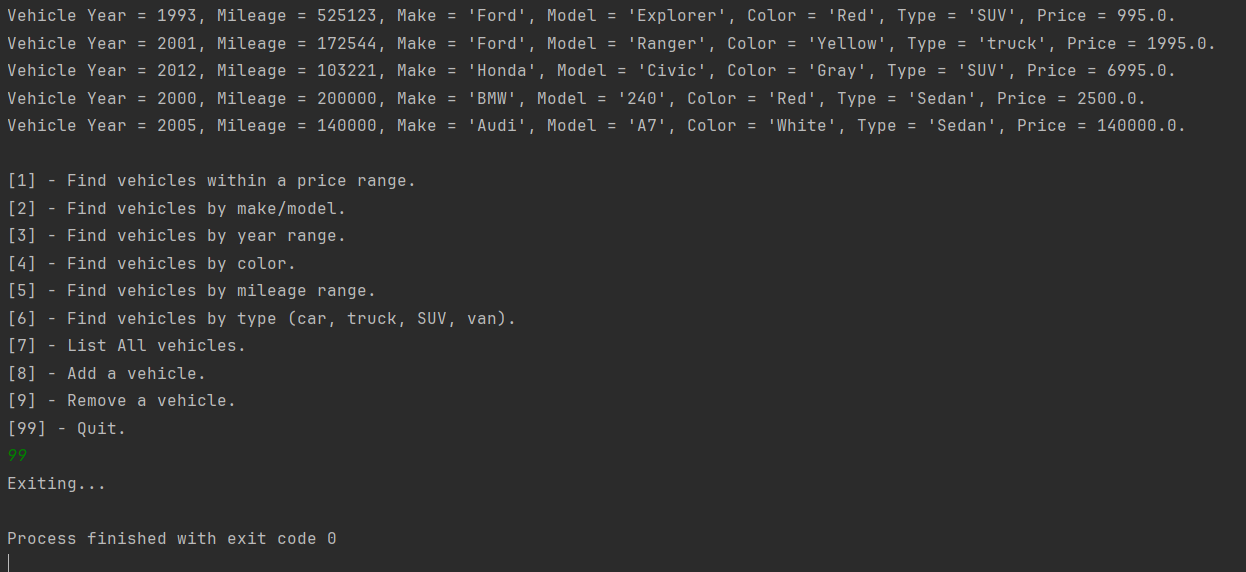
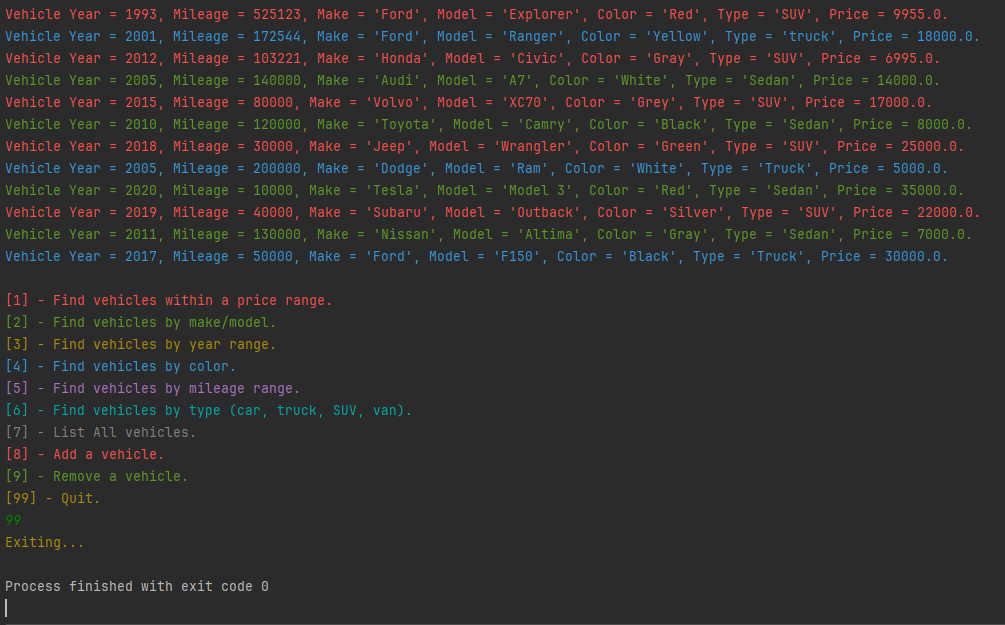
added couple new cars, added color to UI and update my README

diff --git a/Car_Dealer_Ship/src/main/java/com/pluralsight/ui/UserInterface.java b/Car_Dealer_Ship/src/main/java/com/pluralsight/ui/UserInterface.java
@@ -23,17 +23,16 @@ public class UserInterface {
 
     private void displayMenu() {
         System.out.println();
-        System.out.println("[1] - Find vehicles within a price range.");
-        System.out.println("[2] - Find vehicles by make/model.");
-        System.out.println("[3] - Find vehicles by year range.");
-        System.out.println("[4] - Find vehicles by color.");
-        System.out.println("[5] - Find vehicles by mileage range.");
-        System.out.println("[6] - Find vehicles by type (car, truck, SUV, van).");
-        System.out.println("[7] - List All vehicles.");
-        System.out.println("[8] - Add a vehicle.");
-        System.out.println("[9] - Remove a vehicle.");
-        System.out.println("[99] - Quit.");
-
+        System.out.println("\u001B[31m[1]\u001B[31m - Find vehicles within a price range.");
+        System.out.println("\u001B[32m[2]\u001B[32m - Find vehicles by make/model.");
+        System.out.println("\u001B[33m[3]\u001B[33m - Find vehicles by year range.");
+        System.out.println("\u001B[34m[4]\u001B[34m - Find vehicles by color.");
+        System.out.println("\u001B[35m[5]\u001B[35m - Find vehicles by mileage range.");
+        System.out.println("\u001B[36m[6]\u001B[36m - Find vehicles by type (car, truck, SUV, van).");
+        System.out.println("\u001B[37m[7]\u001B[37m - List All vehicles.");
+        System.out.println("\u001B[31m[8]\u001B[31m - Add a vehicle.");
+        System.out.println("\u001B[32m[9]\u001B[32m - Remove a vehicle.");
+        System.out.println("\u001B[33m[99]\u001B[33m - Quit.");
     }
 
     private void displayVehicles(List<Vehicle> vehicles) {

diff --git a/Car_Dealer_Ship/src/main/java/com/pluralsight/Model/Vehicle.java b/Car_Dealer_Ship/src/main/java/com/pluralsight/Model/Vehicle.java
@@ -21,18 +21,34 @@ public class Vehicle {
         this.price = price;
     }
 
-      @Override
-      public String toString() {
-          return "Vehicle " +
-                  "Year = " + year +
-                  ", Mileage = " + mileage +
-                  ", Make = '" + make + '\'' +
-                  ", Model = '" + model + '\'' +
-                  ", Color = '" + color + '\'' +
-                  ", Type = '" + type + '\'' +
-                  ", Price = " + price +
-                  '.';
-      }
+    @Override
+    public String toString() {
+        String colorCode;
+        switch (type.toLowerCase()) {
+            case "suv":
+                colorCode = "\u001B[31m"; // Red
+                break;
+            case "sedan":
+                colorCode = "\u001B[32m"; // Green
+                break;
+            case "truck":
+                colorCode = "\u001B[34m"; // Blue
+                break;
+            default:
+                colorCode = "\u001B[0m"; // Reset
+                break;
+        }
+
+        return colorCode + "Vehicle " +
+                "Year = " + year +
+                ", Mileage = " + mileage +
+                ", Make = '" + make + '\'' +
+                ", Model = '" + model + '\'' +
+                ", Color = '" + color + '\'' +
+                ", Type = '" + type + '\'' +
+                ", Price = " + price +
+                '.' + "\u001B[0m"; // Reset color
+    }
 
     public double getPrice() {
         return this.price;

diff --git a/README.md b/README.md
@@ -1,4 +1,4 @@
-# 🚀 Car_Dealer_Ship
+# 🚘 Car_Dealer_Ship
 
 ## Car Dealership Management System
 
@@ -40,4 +40,6 @@ And here is exiting process of program.🔥
 
 ![Exiting](Images/Exiting.PNG)
 
-## 🚀 This project is a great example of a simple but effective inventory management system, demonstrating the use of basic Java programming concepts and file handling in Java.
+#### 🚀 This project is a great example of a simple but effective inventory management system, demonstrating the use of basic Java programming concepts and file handling in Java.
+
+### All in all, this Car Dealership Management System is a practical and efficient tool for managing a car dealership. Its combination of powerful features and simple operation make it a valuable asset for any dealership.
